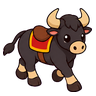
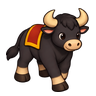
Renew bull down-diagonal trot with painted volume and preserve variable-height import option

diff --git a/tools/import_sprite_sheet.py b/tools/import_sprite_sheet.py
@@ -8,7 +8,9 @@ import argparse
 import statistics
 from PIL import Image
 
-def import_sheet(source, destination):
+def import_sheet(source, destination, registration="median"):
+    if registration not in ("median", "max"):
+        raise ValueError("registration must be median or max")
     im=Image.open(source).convert('RGBA'); w,h=im.size
     cells=[]; heights=[]
     for i in range(6):
@@ -28,7 +30,7 @@ def import_sheet(source, destination):
         bbox=alpha.getbbox()
         if not bbox: raise ValueError('empty animation cell')
         cells.append((cell,bbox));heights.append(bbox[3]-bbox[1])
-    scale=84/statistics.median(heights)
+    scale=84/(max(heights) if registration == "max" else statistics.median(heights))
     out=Path(destination);out.mkdir(parents=True,exist_ok=True)
     for stale in out.glob('frame_*.png'): stale.unlink()
     for i,(cell,bbox) in enumerate(cells):
@@ -40,4 +42,4 @@ def import_sheet(source, destination):
     return out
 
 if __name__=='__main__':
-    p=argparse.ArgumentParser();p.add_argument('source');p.add_argument('destination');a=p.parse_args();import_sheet(a.source,a.destination)
+    p=argparse.ArgumentParser();p.add_argument('source');p.add_argument('destination');p.add_argument('--registration', choices=['median','max'], default='median');a=p.parse_args();import_sheet(a.source,a.destination,a.registration)

diff --git a/REVIEW.md b/REVIEW.md
@@ -151,3 +151,10 @@ La documentación original describía 184 tests y ausencia de arte: al comprobar
 - Captura al segundo1.1 inspeccionada: hocico sobre superficie agua, cuerpo permanece en física real. Alineación aproximada2D, no simulación3D; pie frontal puede superponer borde del objeto no sólido.
 -241tests/3895aserciones pasan; test de reposo actual espera final del acercamiento y comprueba target en1.1px.
 - MismoID/firmaPrueba,code222.
+
+## Decimoquinto incremento (0.21.13)
+
+-6poses nuevas de trote diagonalabajo toro, con volumen pintado coherente con cabeza baja y manteniendo manta roja/dorada, cuernos y silueta reconocible. Sustituyen6poses previas, total78dibujosúnicos/82runtime sin aumentar.
+- Comparación vieja/nueva inspeccionada a192px y ciclo real motor reimportado. Otros4ángulos de toro conservan arte previo, hay diferencia de acabado entre vistas; no declaración de renovación total ni3D.
+- Herramienta importer incorpora --registration max reproducible para gestos de altura variable; no cambia defaultmedian de marcha.
+-241tests/3895aserciones conservadas; misma identidad/firmaPrueba,code223. Prototipo artístico, no revisión humana de continuidad final.

diff --git a/CHANGELOG.md b/CHANGELOG.md
@@ -170,3 +170,8 @@ R para liberar en teclado, ayuda contextual por estado, controles de juego ocult
 ## 0.21.12
 - Acercamiento físico corto para alinear gesto de beber/comer con objeto, sinteleport.
 - Captura tardía de revisión y regresión del punto de parada;code222.
+
+## 0.21.13
+-6poses trote diagonalabajo toro con volumen pintado, conservando identidad.
+- Registro máximo opcional de sheets para gestos de altura variable.
+- code223; sinmodelos3D, otrosángulosprevios.
